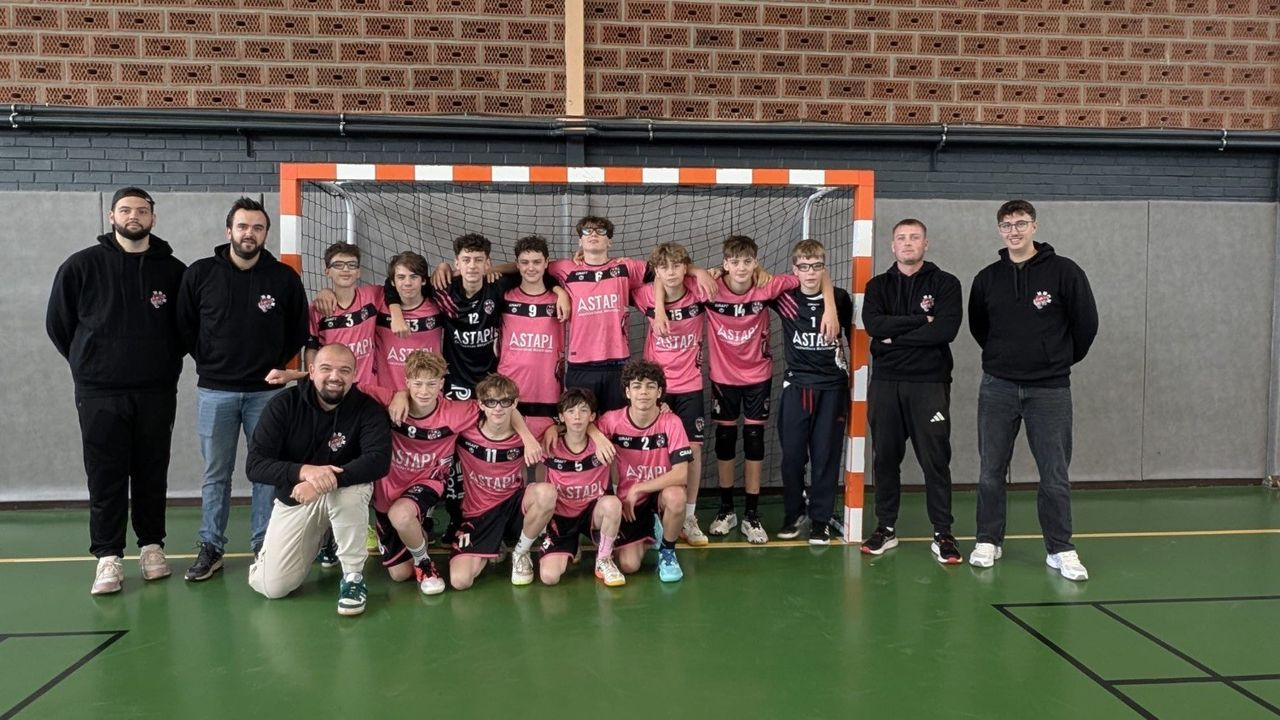
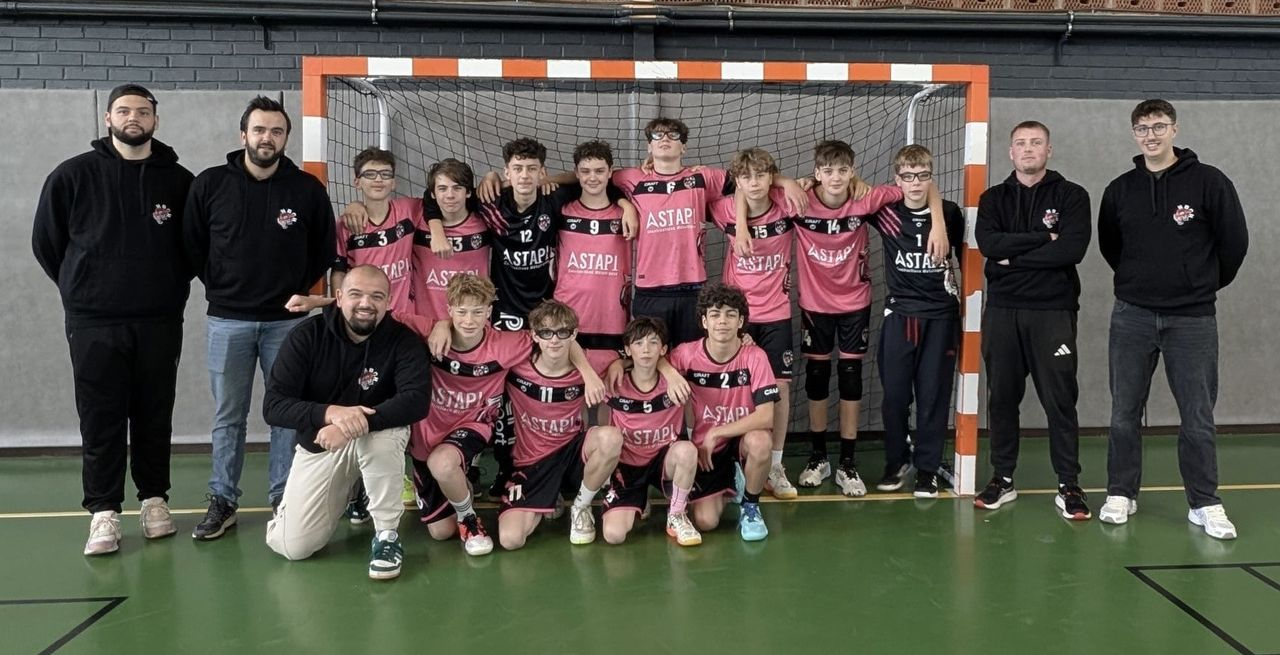
Photo des U15 Région recentrée
Claude-Session: https://claude.ai/code/session_01BUGiufko8MGei1RVygVe4V

diff --git a/index.html b/index.html
@@ -2438,7 +2438,7 @@ const PHOTOS = {
   "loisirs": ["photos/equipe-loisirs-2026.jpg", 1206, 796, "L'équipe loisirs « Les Gueules Roses », hommes et femmes en maillot rose, pose devant un but avec sa banderole, une coupe, des enfants et une peluche de tigre"],
   "u18-france": ["photos/equipe-u18-france.jpg", 1600, 807, "Les U18 de l'Alliance Artois en maillot blanc à bandes rouges et bleues, avec leurs entraîneurs, devant un but"],
   "u18-departemental": ["photos/equipe-u18-departemental.jpg", 1600, 1200, "Les U18 de l'entente Béthune-Hersin en maillot bleu marine, devant un but dans une salle vitrée"],
-  "u15-region": ["photos/equipe-u15-region.jpg", 1500, 844, "Les U15 Région en maillot rose et noir posent devant un but avec leurs encadrants"],
+  "u15-region": ["photos/equipe-u15-region.jpg", 1744, 892, "Les U15 Région en maillot rose et noir posent devant un but avec leurs encadrants"],
   "u11": ["photos/equipe-u11.jpg", 1200, 900, "Les U11, filles et garçons en maillot rose et noir, posent devant un but avec leurs entraîneurs"],
   "u13a": ["photos/equipe-u13.jpg", 1600, 1200, "Le groupe U13 réuni dans la salle avec ses entraîneurs, en tenues roses et noires"],
   "u13b": ["photos/equipe-u13.jpg", 1600, 1200, "Le groupe U13 réuni dans la salle avec ses entraîneurs, en tenues roses et noires"],

diff --git a/sw.js b/sw.js
@@ -3,7 +3,7 @@
    Photos et logos : la copie d'abord (rapide), rafraîchie en arrière-plan. */
 // Notifications (OneSignal) : réception et affichage des notifications envoyées par le club
 try { importScripts("https://cdn.onesignal.com/sdks/web/v16/OneSignalSDK.sw.js"); } catch (e) {}
-const CACHE = "hbch-d772260b4a";
+const CACHE = "hbch-e70474af5f";
 const CORE = ["./", "index.html", "manifest.webmanifest", "logo-hbch.png", "icon-192.png"];
 self.addEventListener("install", e => { e.waitUntil(caches.open(CACHE).then(c => c.addAll(CORE)).then(() => self.skipWaiting())); });
 self.addEventListener("activate", e => {
